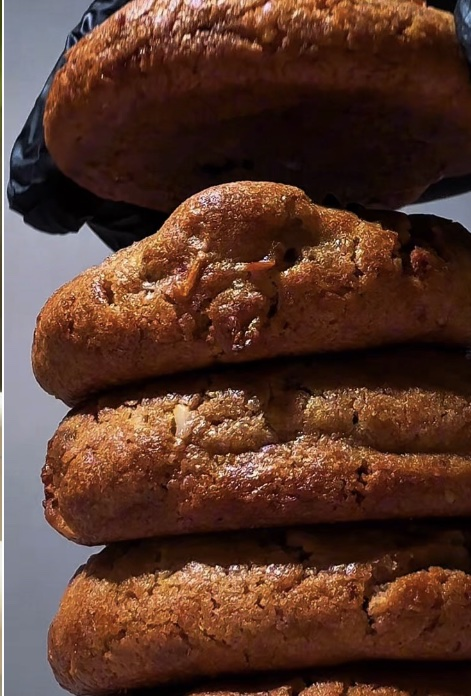
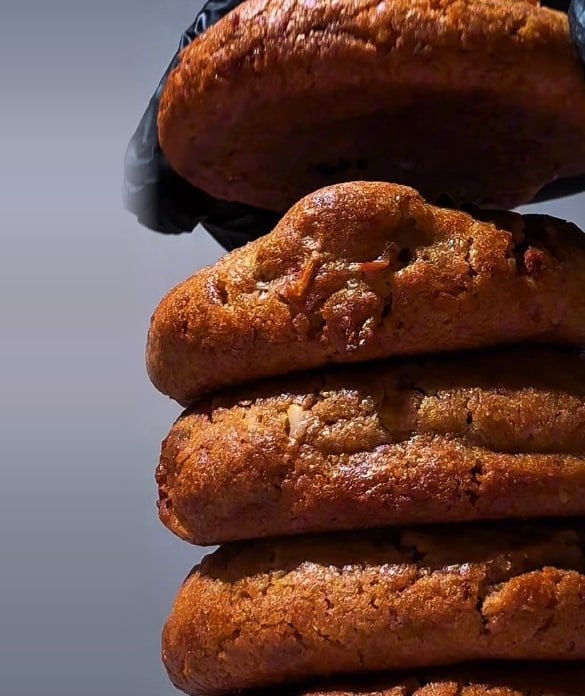
Герой и развилка: вступление Caveat, шалфей, время доставки, ритм блоков
Герой:
- вступление о кафе двумя строками одним шрифтом (Caveat, масштаб 1,2):
  «Холодный каркаде и мединское печенье.» и «5 фирменных напитков по
  своему рецепту, только в Savva.» (5 позиций Savva — по меню; «свой
  рецепт, только здесь» — со слов пользователя); высота строки не растёт
  с масштабом, первый ряд коллажа стоит на месте;
- стакан стоит на базовой линии имени и ростом с заглавную «S», блик убран;
- коллаж: одинаковые фото под разными именами отсеиваются по отпечатку
  картинки; «печенье стопкой» — срезана полоса слева, стена продлена
  влево (scripts/widen-cookies.mjs), кадр виден целиком.
Развилка:
- фон шалфей; тексты дверей и «Заказать» («Savva к вашей двери»);
- доставка: поле «Время доставки» — «как можно скорее» и слоты до 01:00
  включительно (час на дорогу до закрытия в 02:00), с подсказкой;
- «Прийти»: переключение фото и схемы без поля «Что приготовить».
Ритм: --block-pad (воздух внутри блока) и --block-gap (от контента до
контента) независимы; у развилки свои 52 и 140.
Панель твиков: фон развилки, ритм блоков, шрифт, цвет, начертание и
масштаб вступления.

diff --git a/version-2/src/i18n/ru.ts b/version-2/src/i18n/ru.ts
@@ -10,6 +10,8 @@ export const ru = {
   },
   hero: {
     lead: 'Холодный каркаде и мединское печенье.',
+    // 5 напитков с именем Savva — по меню (content-sources.md); «свой рецепт, только здесь» — со слов пользователя 2026-09-18
+    signature: '5 фирменных напитков по своему рецепту, только в Savva.',
     book: 'Забронировать стол',
     order: 'Заказать доставку',
     route: 'Маршрут',
@@ -37,9 +39,9 @@ export const ru = {
     title: 'Забрать, заказать или прийти',
     tabsLabel: 'Способ',
     doors: {
-      takeaway: { title: 'Забрать с собой', text: 'Спешите на работу или учёбу: drive-through или на вынос.' },
-      order: { title: 'Заказать', text: 'Выберите из меню, привезём без контакта.' },
-      visit: { title: 'Прийти', text: 'Стол в зале или на веранде, можно заказать заранее.' },
+      takeaway: { title: 'Забрать с собой', text: 'Спешите на работу или учёбу: drive-through или заходите за готовым заказом.' },
+      order: { title: 'Заказать', text: 'Выберите меню и оставьте адрес.' },
+      visit: { title: 'Прийти', text: 'Стол в зале или на веранде, можно заказать к приходу.' },
     },
     takeaway: {
       caption: 'Drive-through',
@@ -62,9 +64,13 @@ export const ru = {
       photo3Alt: 'Мединское печенье с чёрным тмином перед выпечкой',
       photo4Alt: 'Четыре стакана кофе Savva на мраморном столике',
       next: 'Следующее фото',
-      title: 'Меню домой, без контакта',
-      text: 'Отметьте, что привезти, и оставьте адрес. Кафе перезвонит и подтвердит заказ.',
+      title: 'Savva к вашей двери',
+      text: 'Соберите заказ в меню, оставьте адрес и выберите время.',
       address: 'Адрес доставки',
+      time: 'Время доставки',
+      asap: 'Как можно скорее',
+      lastHint: 'Заказ на доставку можно оформить до {last}: на дорогу нужен час, кафе работает до 02:00.',
+      laterHint: 'Заказы на доставку принимаем до {last}. Сейчас можно выбрать время с {first}.',
       submit: 'Отправить заказ',
       openMenu: 'Открыть меню',
       note: 'Демо-версия сайта: заказ никуда не отправляется.',

diff --git a/version-2/src/styles/global.css b/version-2/src/styles/global.css
@@ -30,7 +30,20 @@
 :root {
   --wrap-max: 1280px;
   --wrap-gutter: 28px;
-  --space-section: 90px;
+  /* Две независимые ручки ритма:
+     --block-pad — высота блока: воздух внутри сверху и снизу (у цветной полосы — её толщина);
+     --block-gap — от нижнего края контента одного блока до верхнего края контента следующего.
+     Между блоками добавляется поле, если gap больше двух pad; если меньше — блоки просто стоят вплотную. */
+  --block-pad: 80px;
+  --block-gap: 160px;
+  /* свои значения у развилки: высота её полосы и расстояние от героя до неё (подобраны пользователем 2026-09-19) */
+  /* вступление героя: шрифт, начертание, масштаб и цвет обеих строк (Caveat 1,2 — выбор пользователя 2026-09-19) */
+  --lead-font: var(--font-hand);
+  --lead-weight: 500;
+  --lead-scale: 1.2;
+  --lead-color: var(--color-ink);
+  --fork-pad: 52px;
+  --fork-gap: 140px;
   --radius-block: 34px;
   --radius-tile: 14px;
   --display-scale: 0.8;
@@ -149,7 +162,10 @@
 
   /* вертикальный ритм между блоками */
   .section {
-    padding-block: var(--space-section);
+    padding-block: var(--block-pad);
+  }
+  main > section ~ section {
+    margin-top: max(0px, calc(var(--block-gap) - 2 * var(--block-pad)));
   }
 
   /* Рукописное слово над заголовком — часть мира «Навес» */
